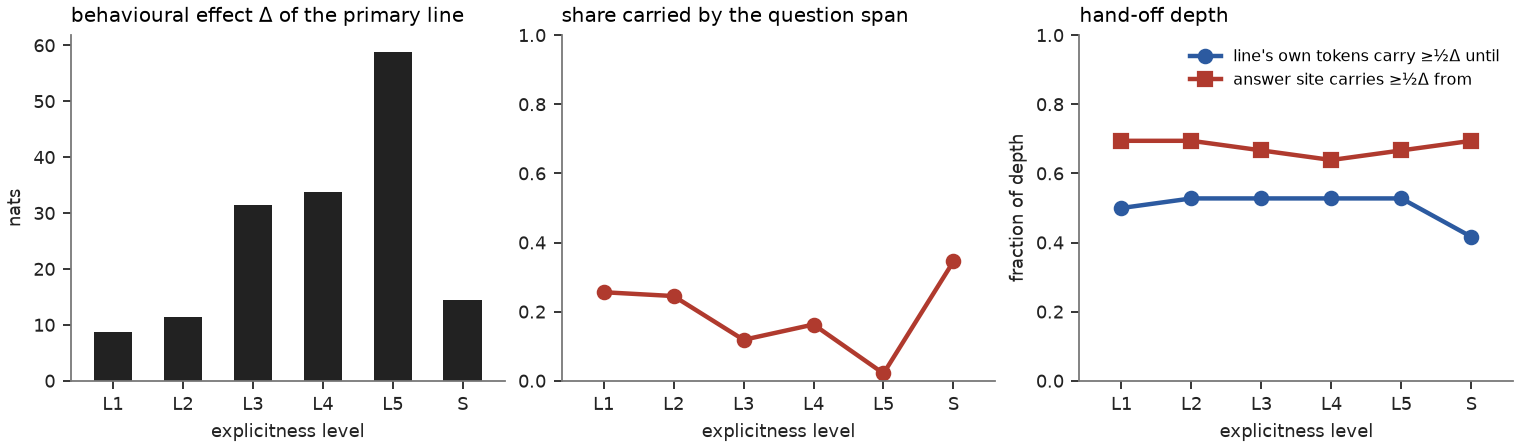
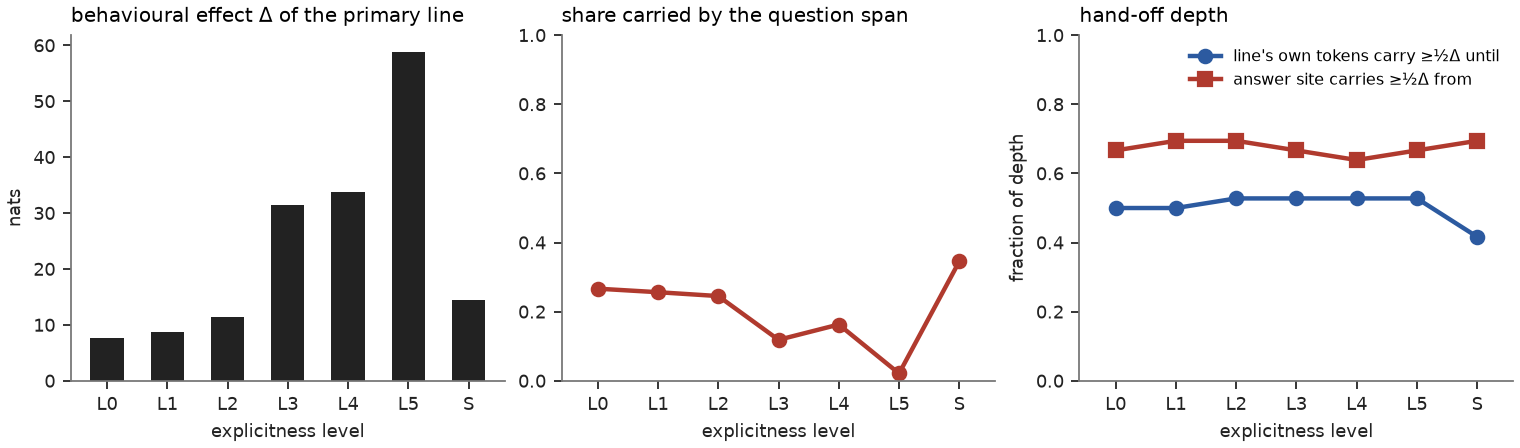
internals: 21 Sep write-up (SWEEP_RESULTS.md); ladder lookup fix; regenerated sweep summaries

diff --git a/internals/cdim_sweep/analyse.py b/internals/cdim_sweep/analyse.py
@@ -196,10 +196,12 @@ def cdim_tables(d: Path, L: list[str]):
     for lvl, suffix in (("L0", ""), ("pro", "-pro")):
         prec = d.name.replace("-sweep", "") + suffix
         cand = [d.parent / prec, d.parent.parent / "old-substrate-v1" / d.parent.name / prec]
-        m = next((cm for c in cand if (cm := cell_metrics(c))), None)
-        if m and _same_lines(m["dir"], HERE / "ladder" / f"{lvl}.txt"):
-            m["cell"], m["exp"] = lvl, "ladder"
-            exps.setdefault("ladder", []).append(m)
+        for c in cand:
+            m = cell_metrics(c)
+            if m and _same_lines(m["dir"], HERE / "ladder" / f"{lvl}.txt"):
+                m["cell"], m["exp"] = lvl, "ladder"
+                exps.setdefault("ladder", []).append(m)
+                break
     if "ladder" in exps:
         exps["ladder"].sort(key=lambda m: ORDER.index(m["cell"]) if m["cell"] in ORDER else 99)
     if not exps:

diff --git a/internals/SWEEP_RESULTS.md b/internals/SWEEP_RESULTS.md
@@ -1,0 +1,146 @@
+# 21 Sep 2026 — the nine-line substrate, the explicitness ladder, paraphrases, scenarios, the 8B family, and the drive-frame direction
+
+One pod (2× H100 80 GB, bf16, 06:55–18:40 UTC). Everything is M = log P(drive) − log P(walk)
+in nats at the answer position, chat template, teacher-forced, on the current `prompts/`
+(nine-line `substrate.txt`, question tail "walk or drive"). Per-run tables: `results/<model>/bf16/summary.md`,
+`cdim_summary.md`; sweeps: `results/<model>/bf16-sweep/sweep_summary.md`; frames:
+`results/<model>/bf16-frame/frame_summary.md`; the family gate: `results/family_gate.log`.
+Ladder levels are in `cdim_sweep/ladder/` (L0 = the retired six-line abstract substrate, S = the current
+`substrate.txt`, pro = the retired `substrate_pro.txt`); the 17–18 Sep results on L0/pro live in
+`results/old-substrate-v1/` and appear here as the L0 and pro rows.
+
+## 1. The new substrate, four models
+
+| model | baseline | substrate S | API (runs/substrate/margins.md) | patch flips from layer | reversing one line |
+|---|---|---|---|---|---|
+| Llama-3.2-3B | −0.50 | +0.18 drive | (no logprobs) | – | – |
+| Llama-3.1-8B | −3.71 | +1.51 drive | +1.63 | 15 / 32 | line 9 ("must operate it" → "may leave it") back to walk (Δ 2.0); line 7 Δ 1.4 |
+| Llama-3.3-70B | −13.65 | +15.01 drive | +14.65 | 38 / 80 | **no single line**: max Δ 1.9 of 15 (line 9, then 5, 3, 6); leave-one-out ≥ +13.4 |
+| Qwen3-8B | −14.07 | +7.25 drive | – | 24 / 36 | line 7 ("walking leaves a vehicle behind" → "brings it along") alone drops it to −7.25 (Δ 14.5); line 9 Δ 6.5 |
+
+The local and API margins agree within 0.4 nats on the two models that have both. The old six-line
+substrate left the 3B at −0.01; the new one flips it. On the 70B the new substrate is redundant (every
+rule backs up the others, no line necessary), where the old one hung on one line (reverse line 5 → walk);
+on Qwen3-8B one line still carries it. Where a single line shows up, it is line 7 or 9, the two that say
+what walking does to a vehicle; the goal lines and the definitions never matter on their own.
+
+## 2. The explicitness ladder (carwash question, CDIM map per level)
+
+Δ = effect of reversing the primary line; "line until / answer from" = last row where the line's own tokens
+carry ≥ ½Δ and first row where the answer site does, as a fraction of depth; "via question" = largest
+fraction of the line's rescue that the question span carries alone (path patching); control = the paired
+walk question under the same substrate stays Walk under every patch.
+
+**Llama-3.3-70B**
+
+| level | M | primary line, Δ | flips | line until | answer from | via question | control |
+|---|---|---|---|---|---|---|---|
+| L0 abstract | +6.1 | 5, +9.5 | yes | 0.30 | 0.45 | 18 % | walk |
+| L1 + answer verbs | +5.2 | 6, +10.3 | yes | 0.35 | 0.50 | 38 % | walk |
+| L2 + examples | **−0.7 walk** | 1, −11.1 | yes | 0.20 | 0.50 | 63 % | walk |
+| L3 concrete nouns | +11.5 | 6, +19.4 | yes | 0.33 | 0.50 | 20 % | walk |
+| L4 + consequences | +21.6 | 5, +28.1 | yes | 0.35 | 0.42 | 15 % | walk |
+| L5 + verdict | +23.2 | 6, +38.4 | yes | 0.38 | 0.45 | 7 % | walk |
+| S (official) | +15.0 | 9, +1.9 | no | 0.35 | 0.45 | 63 % | walk |
+| pro (retired) | +17.0 | 9, +6.5 | no | 0.38 | 0.45 | 64 % | walk |
+
+**Qwen3-8B**
+
+| level | M | primary line, Δ | flips | line until | answer from | via question | control |
+|---|---|---|---|---|---|---|---|
+| L0 | +10.8 | 6, +7.8 | no | 0.50 | 0.67 | 27 % | walk |
+| L1 | +7.3 | 6, +8.8 | yes | 0.50 | 0.69 | 26 % | walk |
+| L2 | +7.5 | 6, +11.5 | yes | 0.53 | 0.69 | 25 % | walk |
+| L3 | +23.3 | 6, +31.5 | yes | 0.53 | 0.67 | 12 % | walk |
+| L4 | +30.0 | 5, +33.8 | yes | 0.53 | 0.64 | 16 % | **drive** |
+| L5 | +33.9 | 6, +58.9 | yes | 0.53 | 0.67 | 2 % | **drive** |
+| S | +7.3 | 7, +14.5 | yes | 0.42 | 0.69 | 35 % | walk |
+
+Findings.
+
+- **Prediction H1 is rejected.** The share carried by the question span does not rise with explicitness;
+  for the concrete levels it falls (70B: 20 → 15 → 7 %; Qwen: 12 → 16 → 2 %). The more explicitly a line
+  states the rule, the more directly the answer position reads it. The two definition-style substrates
+  (S, pro) have the highest shares (63–64 %) but also the smallest per-line effects (Δ 1.9 / 6.5 against
+  a random-direction control of 0.9 / 1.5), so on them the share is a ratio of two small numbers. Across
+  all cells the share tracks 1/Δ more than it tracks the wording.
+- **The hand-off depth does not move.** On the 70B the line's own tokens carry the effect until 0.30–0.38
+  of depth and the answer site from 0.42–0.50 at every level, every paraphrase and every scenario
+  (the one exception is L2, which the 70B answers Walk). Qwen: 0.50–0.53 → 0.64–0.69 throughout.
+  The depth at which the rule leaves its tokens is a property of the model, not of the wording.
+- **Explicitness buys margin, and on Qwen it costs selectivity.** Qwen L4 and L5 (consequences,
+  verdict) push the library / parcel / prescription questions to Drive too (grid B: +8 to +13 nats), and
+  their CDIM controls go Drive. The 70B never leaks under any level. S and L2 do not leak on either model.
+- **L2 is a surprise:** adding "(for example a car)" style examples to the abstract substrate makes the
+  70B say Walk (−0.7); every other level says Drive. Reversing line 1 of L2 makes it *more* Drive.
+
+## 3. Paraphrases and scenarios (70B, substrate S)
+
+Behavioural grid, 36 wordings (12 bodies × 3 tails) per scenario:
+
+| substrate | drive tasks P(drive) | walk tasks P(drive) | carwash M min / median / max | tail effect (max−min of the mean) |
+|---|---|---|---|---|
+| none | 0.11 | 0.00 | −18.0 / −12.3 / −2.8 | 3.2 |
+| L0 | 0.90 | 0.00 | −8.0 / +14.0 / +19.0 | 2.9 |
+| S | 0.98 | 0.00 | +10.8 / +16.4 / +21.3 | 2.8 |
+| L5 | 1.00 | 0.00 | | |
+| pro | 1.00 | 0.00 | +14.1 / +19.0 / +26.2 | 4.1 |
+
+Under S every one of the 36 carwash wordings says Drive and the spread (sd 2.5) is narrower than
+without a substrate (sd 3.2). The three answer tails move the 70B by at most 4 nats. On Qwen3-8B the
+tails move it by 10–20 nats ("drive or walk" pushes it to Drive), and walk tasks reach P(drive) 0.22–0.33
+under L0 / S, so the selectivity the paper wants holds on the 70B and only partly on Qwen.
+
+CDIM cells on S (13 paraphrases, 6 scenarios): M(S) from +2.0 (parking) to +18.1; hand-off 0.25–0.38 →
+0.42–0.50 in every cell; primary line 9, 5 or 6 with Δ 1.6–3.9 (parking: reversing line 7 makes it more
+Drive, Δ −7.2); question share 14–64 % (noise at these Δ); every control stays Walk. `sweep_stability.png`:
+the depth is flat in M(S), the share scatters.
+
+## 4. The 8B family (same architecture, eleven subjects; gate only)
+
+Baseline vs S, one pass each, bf16. Pass = substrate moves M by ≥ 3 nats and lands on Drive.
+
+| subject | baseline | S | |
+|---|---|---|---|
+| Llama-3-8B-Instruct | −9.6 | +0.8 | pass |
+| Llama-3.1-8B-Instruct | −3.7 | +1.5 | pass |
+| Hermes-2-Pro (Llama-3) | −7.3 | +5.4 | pass |
+| Hermes-3 (Llama-3.1) | −5.1 | +3.0 | pass |
+| Tulu-3 | −4.8 | +0.9 | pass |
+| Tulu-3.1 | −2.0 | +2.6 | pass |
+| Dolphin 2.9.4 | −1.2 | −0.7 | **fail** (ignores the one-word instruction: "I need to wash…") |
+| Llama-3.1-8B abliterated | −7.5 | +2.1 | pass |
+| OpenBioLLM-8B | – | – | no chat template, could not run |
+| Storm-8B | −6.2 | +5.7 | pass |
+| Lexi-Uncensored-V2 | −2.7 | +1.1 | pass |
+
+Nine of ten measurable subjects flip, every one from a clear Walk. Maps for the nine are not run yet
+(`run_family_8b.sh` does them; ~15 min per subject on one card).
+
+## 5. The drive-frame direction (brainscope, §"concepts in layers")
+
+A per-layer direction extracted with brainscope's `pca_directions` from 84 contrast pairs (each vehicle
+question answered with a drive rationale vs a walk rationale), then every condition's prompt projected
+on it at the answer position. Departure = first layer from which the condition sits > 3 sd outside the
+bundle of the nine prompt-only conditions; lens = first row from which the logit lens stays > 0.
+
+| model | prompt-only conditions (baseline, CoT, expert, goal, threat, …) | every substrate condition (L0–L5, S, pro) | lens |
+|---|---|---|---|
+| Llama-3.3-70B | never leave the bundle, expert (M −5.5) and goal (−4.7) included | depart at layer 30–34 | 48–79 |
+| Llama-3.1-8B | never | depart at layer 14 | 17–30 |
+| Qwen3-8B | never | separated by layer 13 (z 5–8), not sustained to the end | 19–33 |
+
+So the persona / goal / threat prompts, which move the margin by up to 9 nats on the 70B, do not touch
+the frame direction at all; every substrate does, at the same layer regardless of how it is written,
+and 15–45 layers before the lens can read the answer. The departure layers (31 / 14) match the
+answer-site patch-flip layers (38 / 15). Caveat: the contrast completions start with the answer word,
+so the early-layer direction (d' peak at layer 13 / 10 / 3) is lexical; the mid-stack direction is what
+the table uses. A refit with the rationale first and the answer last is queued.
+
+## Not done / caveats
+
+- Mistral Large (cut for time); maps for the nine 8B passers; the frame refit; token-level zoom on the
+  decisive line.
+- On S the per-line effects on the 70B are at the noise floor (Δ ≤ 1.9 vs control 0.9): the S map is a
+  distributed-effect map and its route shares should not be quoted.
+- Interrupted: the family sweep at Llama-3-8B (partial `results/llama-3-8b/bf16-sweep/`).

diff --git a/internals/RESULTS.md b/internals/RESULTS.md
@@ -1,6 +1,6 @@
 # What the substrate changes inside open-weight models
 
-> **Substrate version.** Everything below was measured on the six-line abstract substrate and the `substrate_pro.txt` that `prompts/` held on 17–18 Sep 2026. On 19 Sep `prompts/substrate.txt` was replaced by a nine-line substrate with a Definitions block and `substrate_pro.txt` / `benchmark_library.txt` were removed. The two retired files are kept verbatim as `cdim_sweep/ladder/L0.txt` and `cdim_sweep/ladder/pro.txt`; the json files record the sha256 of the system text they used. No number here applies to the current `substrate.txt`.
+> **Substrate version.** Everything below was measured on the six-line abstract substrate and the `substrate_pro.txt` that `prompts/` held on 17–18 Sep 2026. On 19 Sep `prompts/substrate.txt` was replaced by a nine-line substrate with a Definitions block and `substrate_pro.txt` / `benchmark_library.txt` were removed. The two retired files are kept verbatim as `cdim_sweep/ladder/L0.txt` and `cdim_sweep/ladder/pro.txt`; the json files record the sha256 of the system text they used. No number here applies to the current `substrate.txt`; the 21 Sep results on it are in `SWEEP_RESULTS.md`.
 
 Measured 17 Sep 2026 with `run_internals.py`. All readouts at the position
 that predicts the first answer token, teacher-forced, chat template, bf16

diff --git a/internals/CDIM_RESULTS.md b/internals/CDIM_RESULTS.md
@@ -1,6 +1,6 @@
 # CDIM results — where a substrate line takes effect
 
-> **Substrate version.** Everything below was measured on the six-line abstract substrate and the `substrate_pro.txt` that `prompts/` held on 17–18 Sep 2026. On 19 Sep `prompts/substrate.txt` was replaced by a nine-line substrate with a Definitions block and `substrate_pro.txt` / `benchmark_library.txt` were removed. The two retired files are kept verbatim as `cdim_sweep/ladder/L0.txt` and `cdim_sweep/ladder/pro.txt`; the json files record the sha256 of the system text they used. No number here applies to the current `substrate.txt`.
+> **Substrate version.** Everything below was measured on the six-line abstract substrate and the `substrate_pro.txt` that `prompts/` held on 17–18 Sep 2026. On 19 Sep `prompts/substrate.txt` was replaced by a nine-line substrate with a Definitions block and `substrate_pro.txt` / `benchmark_library.txt` were removed. The two retired files are kept verbatim as `cdim_sweep/ladder/L0.txt` and `cdim_sweep/ladder/pro.txt`; the json files record the sha256 of the system text they used. No number here applies to the current `substrate.txt`; the 21 Sep results on it are in `SWEEP_RESULTS.md`.
 
 Measured 18 Sep 2026 with `cdim.py` (Mechanistic_paper.md §2–§9). For each
 model: the substrate S (system prompt + baseline question) against a

diff --git a/internals/results/llama-3.3-70b/bf16-sweep/sweep_summary.md b/internals/results/llama-3.3-70b/bf16-sweep/sweep_summary.md
@@ -175,12 +175,14 @@ Drive tasks = scenarios whose rules imply drive; walk tasks = portable-object co
 
 | cell | M(S) | greedy | primary line | Δ | flips | line carries ≥½Δ until (row / depth) | answer site from (row / depth) | share via question | random ctrl | control stays walk |
 |---|---|---|---|---|---|---|---|---|---|---|
+| L0 | +6.07 | 'Drive<|eot_id|>' | cf5 (line 5) | +9.52 | yes | 24 / 0.30 | 36 / 0.45 | 18% | 1.85 | True |
 | L1 | +5.18 | 'Drive<|eot_id|>' | cf6s (line 6) | +10.33 | yes | 28 / 0.35 | 40 / 0.50 | 38% | 2.37 | True |
 | L2 | -0.71 | 'walk<|eot_id|>' | cf1 (line 1) | -11.13 | yes | 16 / 0.20 | 40 / 0.50 | 63% | 1.40 | True |
 | L3 | +11.45 | 'Drive<|eot_id|>' | cf6 (line 6) | +19.43 | yes | 26 / 0.33 | 40 / 0.50 | 20% | 1.46 | True |
 | L4 | +21.56 | 'Drive<|eot_id|>' | cf5 (line 5) | +28.12 | yes | 28 / 0.35 | 34 / 0.42 | 15% | 6.81 | True |
 | L5 | +23.15 | 'Drive<|eot_id|>' | cf6 (line 6) | +38.40 | yes | 30 / 0.38 | 36 / 0.45 | 7% | 6.67 | True |
 | S | +15.01 | 'Drive<|eot_id|>' | cf9s (line 9) | +1.90 | no | 28 / 0.35 | 36 / 0.45 | 63% | 0.87 | True |
+| pro | +17.00 | 'Drive<|eot_id|>' | p9s (line 9) | +6.45 | no | 30 / 0.38 | 36 / 0.45 | 64% | 1.46 | True |
 
 ## CDIM: paraphrase
 

diff --git a/internals/results/qwen3-8b/bf16-sweep/sweep_summary.md b/internals/results/qwen3-8b/bf16-sweep/sweep_summary.md
@@ -175,6 +175,7 @@ Drive tasks = scenarios whose rules imply drive; walk tasks = portable-object co
 
 | cell | M(S) | greedy | primary line | Δ | flips | line carries ≥½Δ until (row / depth) | answer site from (row / depth) | share via question | random ctrl | control stays walk |
 |---|---|---|---|---|---|---|---|---|---|---|
+| L0 | +10.75 | 'drive<|im_end|>' | cf6s (line 6) | +7.75 | no | 18 / 0.50 | 24 / 0.67 | 27% | 2.75 | True |
 | L1 | +7.25 | 'drive<|im_end|>' | cf6s (line 6) | +8.75 | yes | 18 / 0.50 | 25 / 0.69 | 26% | 3.00 | True |
 | L2 | +7.50 | 'drive<|im_end|>' | cf6s (line 6) | +11.50 | yes | 19 / 0.53 | 25 / 0.69 | 25% | 3.25 | True |
 | L3 | +23.25 | 'drive<|im_end|>' | cf6s (line 6) | +31.50 | yes | 19 / 0.53 | 24 / 0.67 | 12% | 9.50 | True |
